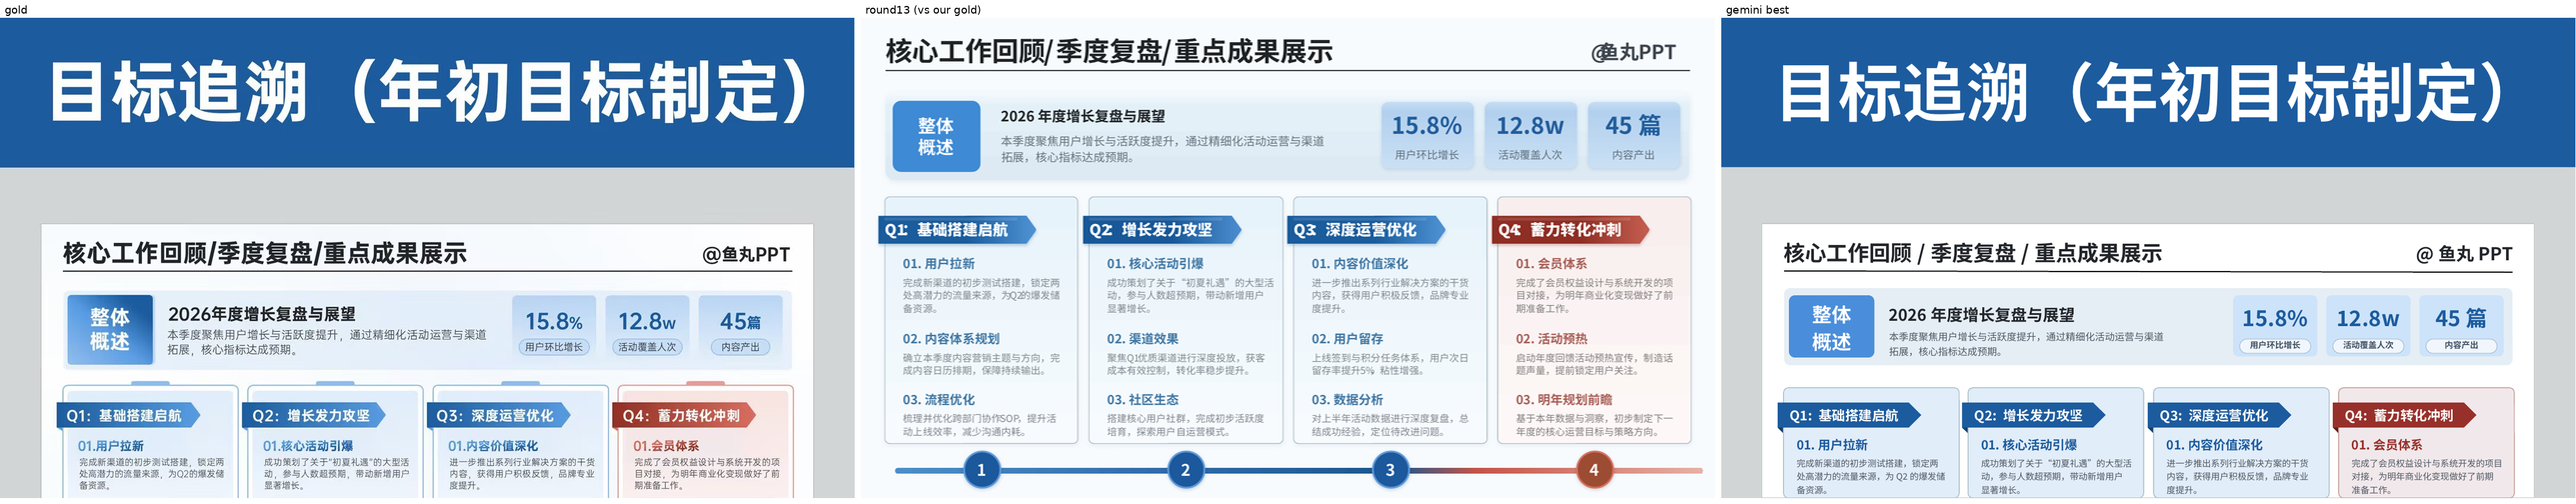
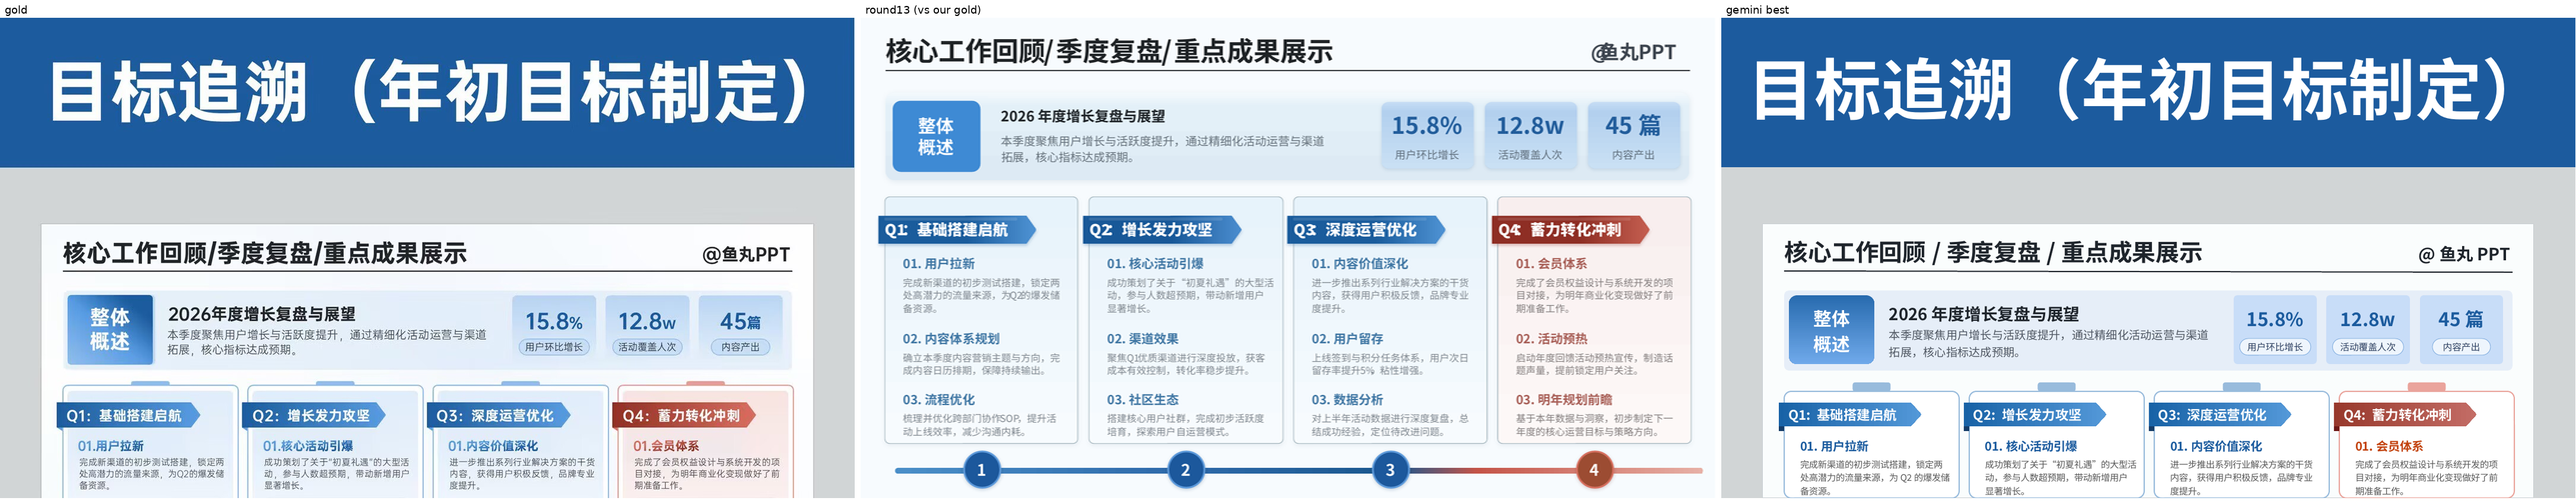
docs: G6 metrics (pass2 quota; synth-audit salvage; case1 score best)

diff --git a/ITERATION.md b/ITERATION.md
@@ -123,9 +123,9 @@ KPI 和概述条的色差已经收到几个 RGB 点里。采样点 (500, 180)：
 | G3 | + text_fidelity 契约 + tesseract OCR（严格冲突） | 0.722 | 0.618 | 0.339 | 0.560 | **0.748** | **0.658** | **0.393** | **0.600** |
 | G4 | + text_size_hints + 渐变 stops 容错（dict / 色在前） | 0.700 | 0.590 | 0.362 | 0.551 | 0.719 | 0.641 | 0.373 | 0.578 |
 | G5 | + OCR 模糊同意 + runs≡text + CJK/Latin 空格闸 + 可编辑透明度 | 0.720 | 0.621 | 0.353 | 0.565 | **0.752** | **0.699** | 0.398 | **0.616** |
-| G6 | + prompts 强调透明度/玻璃/无 pangu（产品能力已齐） | （跑） | | | | | | | |
+| G6 | + prompts 强调透明度；pass2 遭配额 → 合成审计抢救 | **0.723** | 0.627 | 0.357 | **0.569** | 0.731 | **0.707** | 0.406 | 0.615 |
 
-当前 best：case1 = G2（ink 0.645 / score 0.566），case2 = G5（ink 0.699 / score 0.616）。
+当前 best：case1 = G6（score 0.569；ink 仍低于 G2 的 0.645），case2 = G5（score 0.616；G6 ink 0.707 更高但综合分略低）。
 
 ## 每轮改了什么（Gemini）
 
@@ -134,6 +134,8 @@ KPI 和概述条的色差已经收到几个 RGB 点里。采样点 (500, 180)：
 3. **G3**：`text_fidelity_contract` + 本机装上 tesseract chi_sim（`--ocr auto`）。OCR 冲突规则仍是严格包含，tesseract 噪声触发大量假冲突，repair 轮可能把 runs 改成 OCR 乱码（case1 `node-card3-sub` runs=`01. 内`+`容价值深化`，DOM 校验失败 build rc=1）。跑中途 preview 已带上后加的 `text_size_hints`（可编辑安装）。case2 综合分升到 0.600，成为当前 best。
 4. **G4**：preview 增加按墨迹带测的 `text_size_hints`（字形高比、建议 pt、行数、位移）；编译器 `normalize_gradient_stops` 接受 dict / 色在前。两案均出 PPTX；分数未超过 G2/G3。
 5. **G5**（进行中）：ingest 对 OCR 用折叠+数字钉死+窗口 ratio≥0.75 的模糊同意；`payload.runs` 必须拼出 `payload.text`；CJK↔拉丁/数字/`@` 间空格需 `verbatim_spaces` 才能过；编译器支持 `#RRGGBBAA` / `rgba()` / 渐变 stop `opacity`（LibreOffice 实测可透）。
+
+6. **G6**：prompts_r5 强调透明度/玻璃/`verbatim_spaces`。case2 场景出现 6 个 `fill_opacity` 节点（产品能力首次被主机用上）。Pass 1 完成后 Gemini 配额耗尽（约 00:28 CST，提示重置约 1h42m → ~02:10），pass2/repair 全部 429。用 EVAL-ONLY 合成 content_audit（镜像 scene，`source=eval_only_synthetic_after_quota`）抢救 ingest→build→度量；正式流水线仍要真实 pass2。case1 综合分新高 0.569；case2 ink 新高 0.707、综合分 0.615 略低于 G5。
 
 ## 诚实上限（相对 100% 还原）
 
